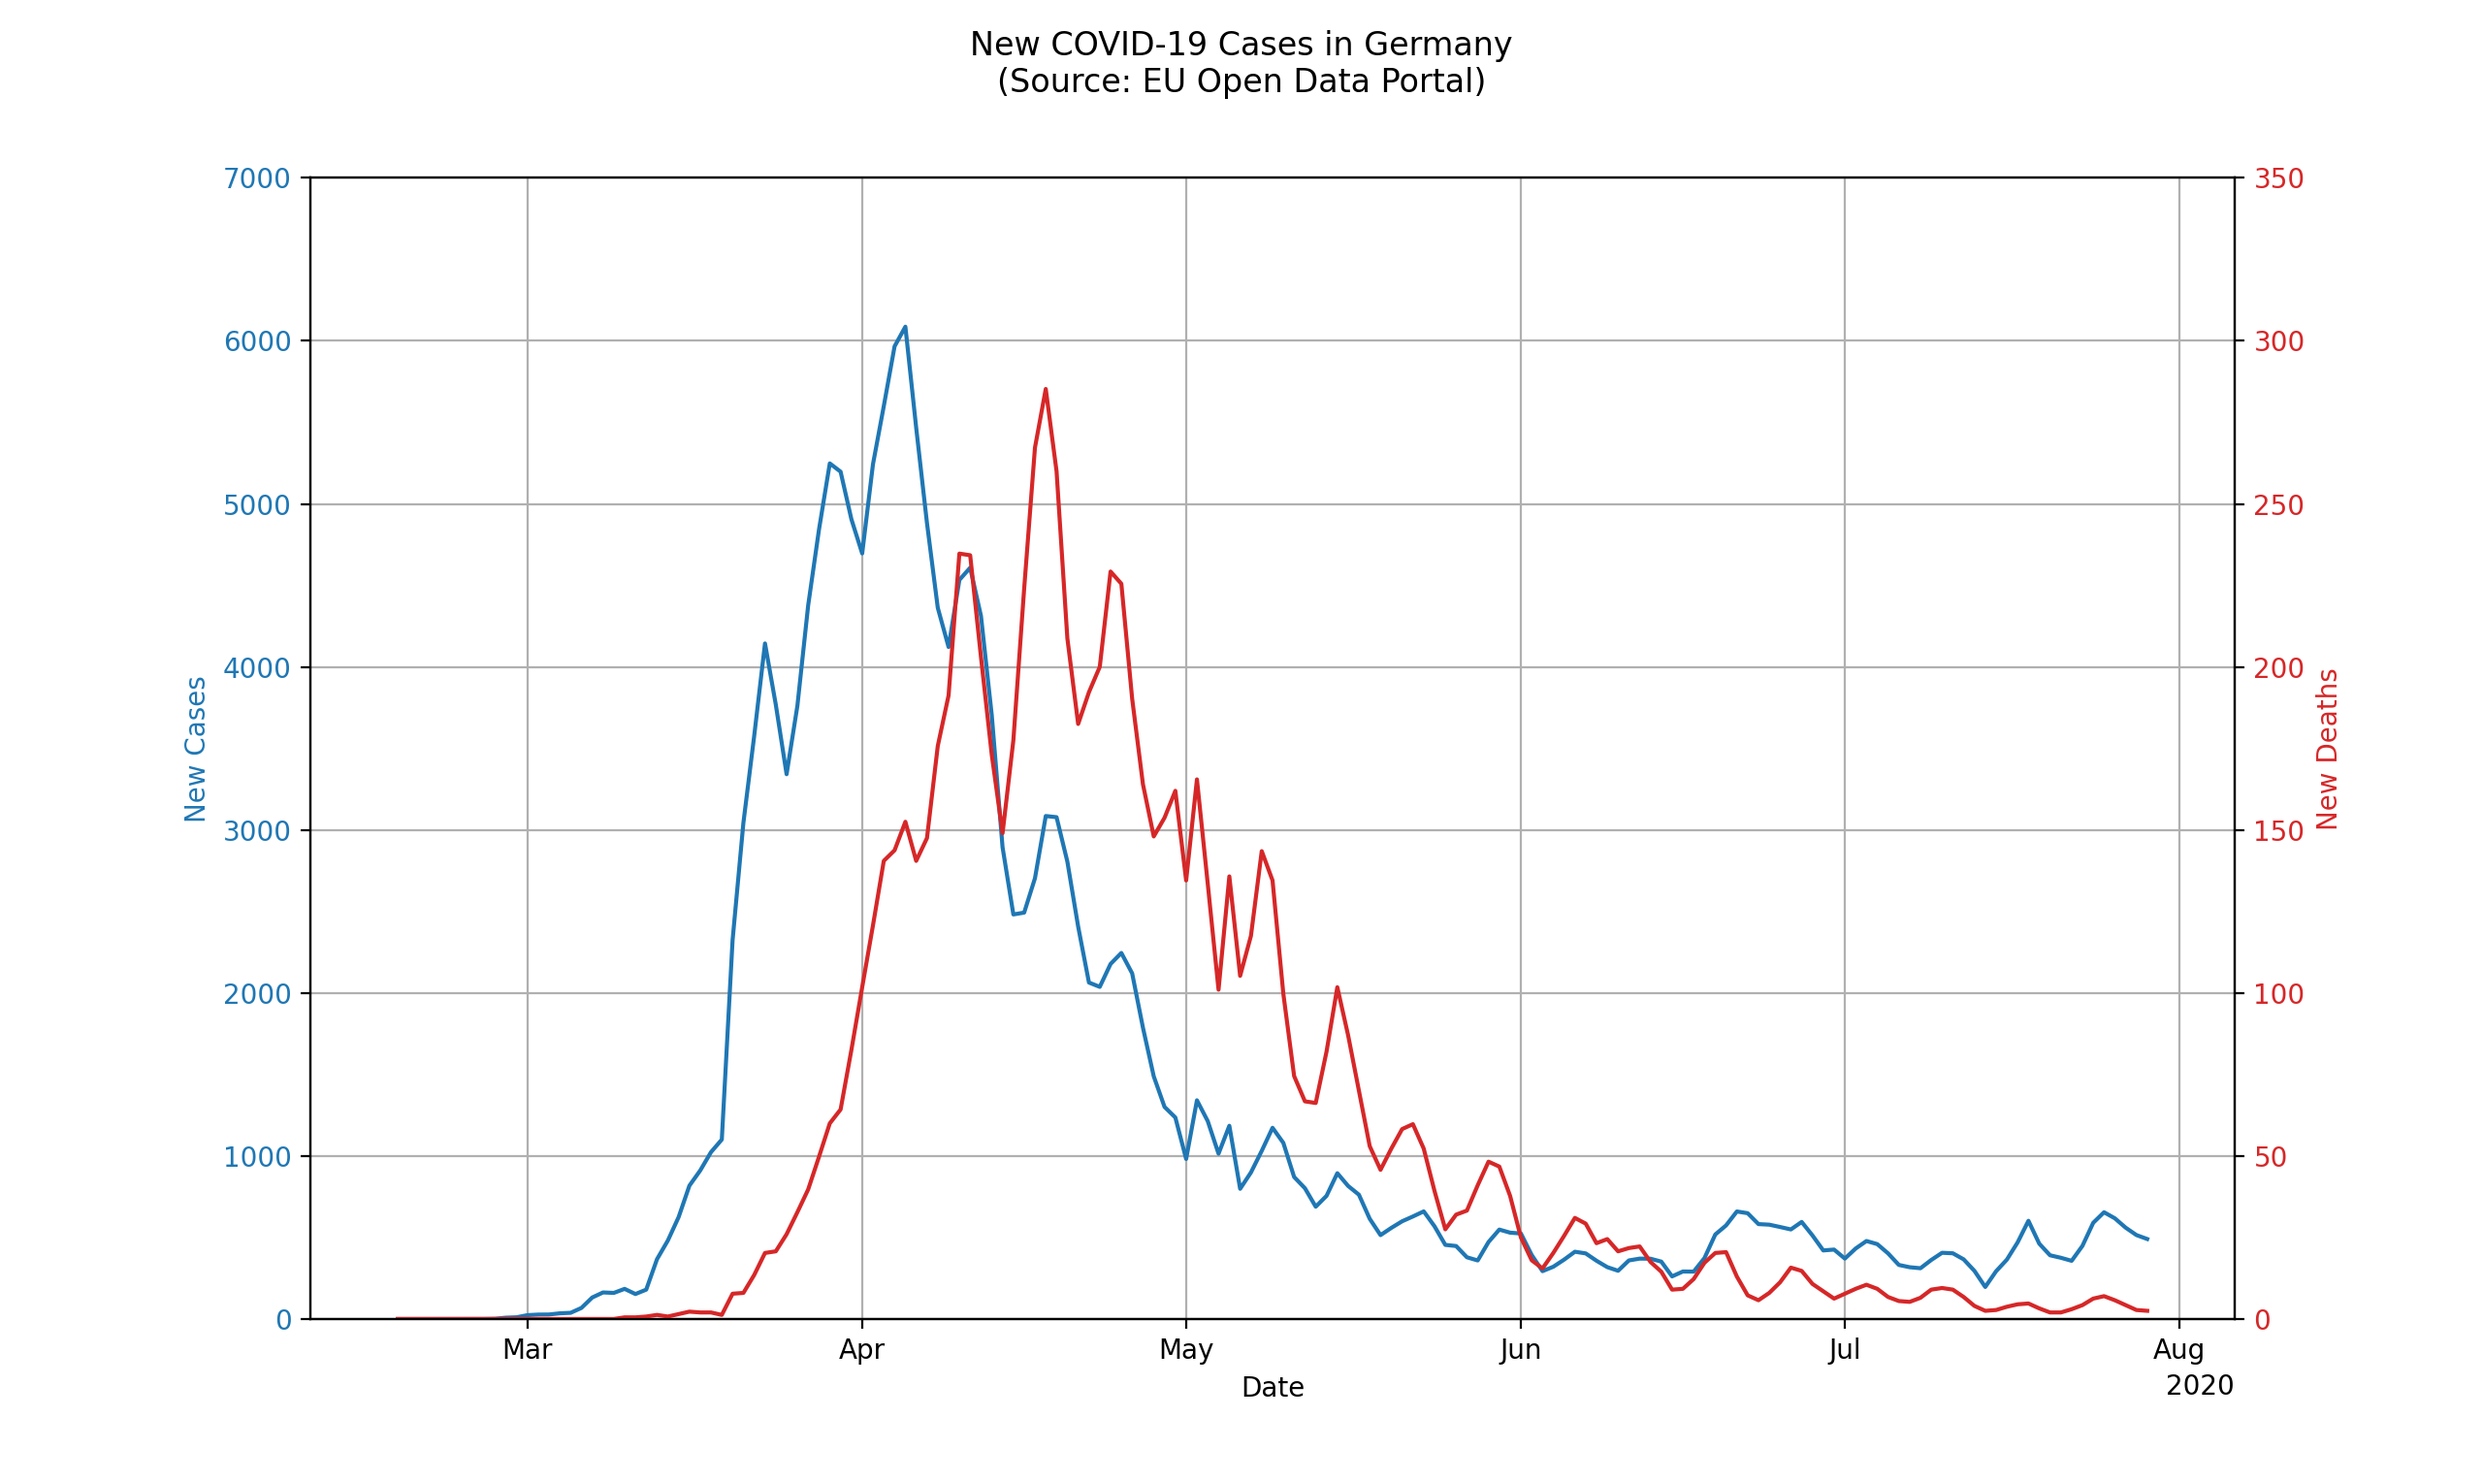
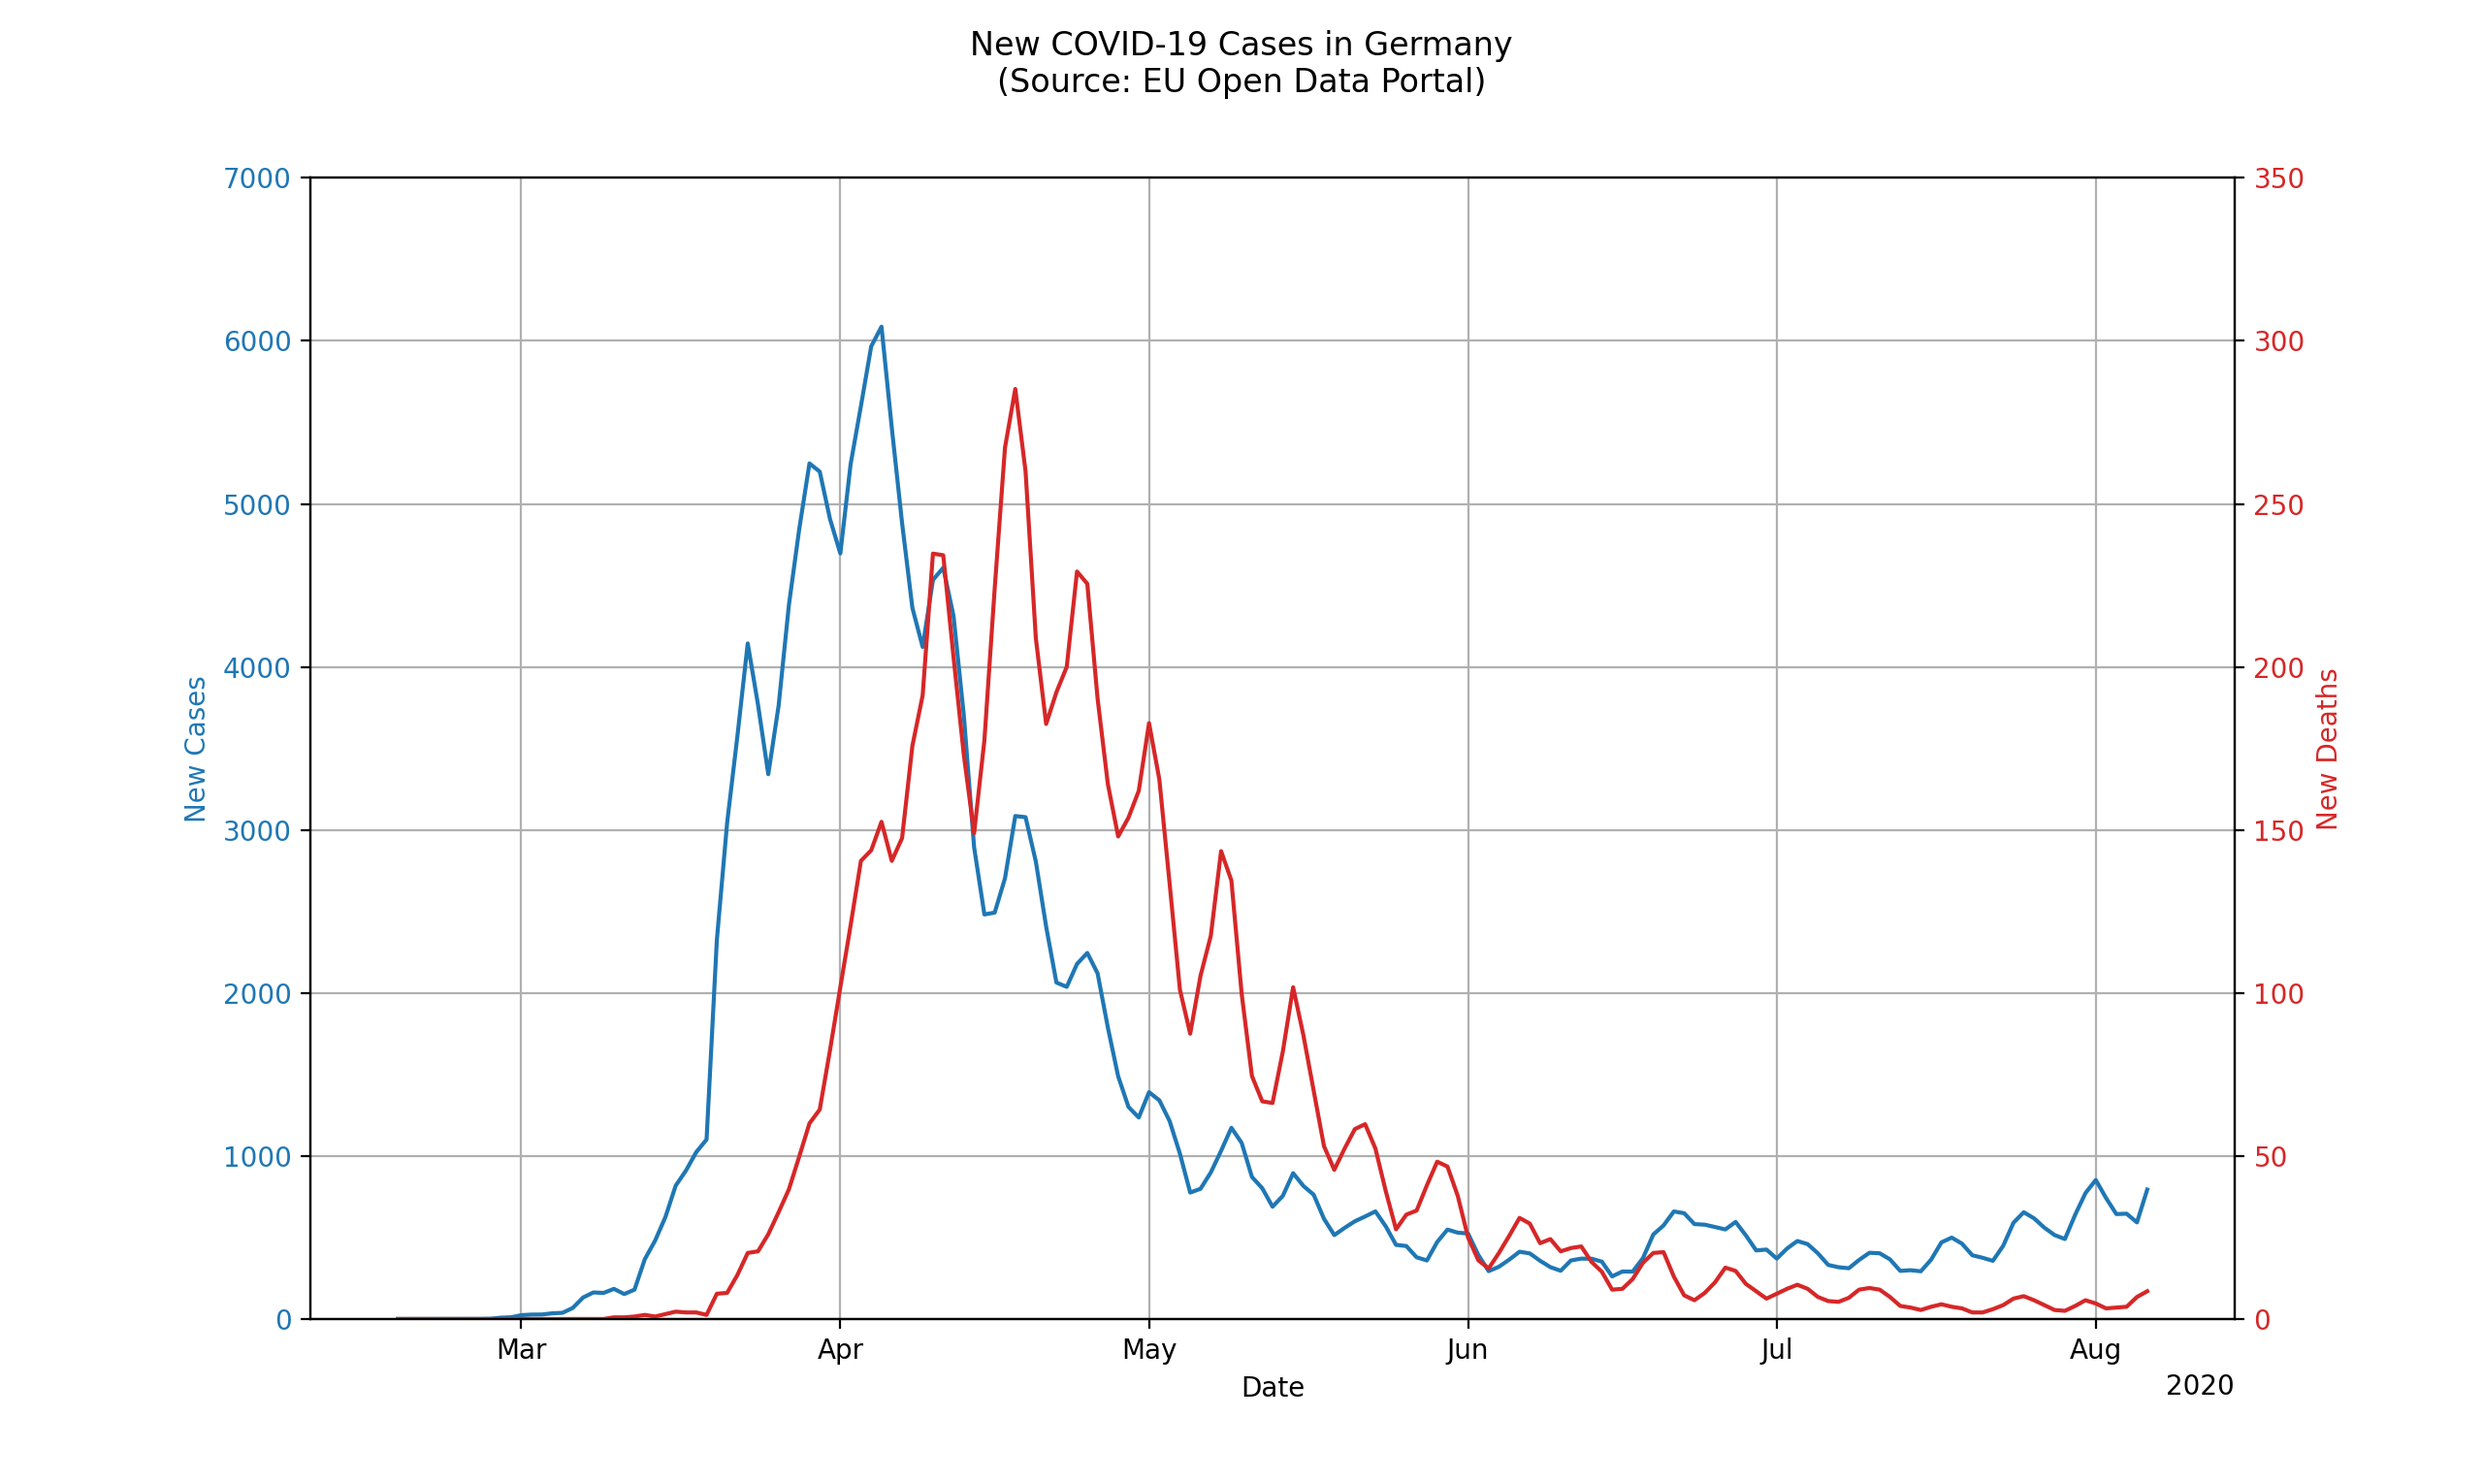
updated stats

diff --git a/corona_config.py b/corona_config.py
@@ -17,7 +17,7 @@ backup_path_rki_report = "{}/backup_{}".format(data_folder, file_rki_report)
 
 link_corona_cases = "https://opendata.ecdc.europa.eu/covid19/casedistribution/csv"
 link_deaths_germany = "https://www.destatis.de/DE/Themen/Gesellschaft-Umwelt/Bevoelkerung/Sterbefaelle-Lebenserwartung/Tabellen/sonderauswertung-sterbefaelle.xlsx?__blob=publicationFile"
-link_rki_report = "https://www.rki.de/DE/Content/InfAZ/N/Neuartiges_Coronavirus/Situationsberichte/2020-07-29-de.pdf?__blob=publicationFile"
+link_rki_report = "https://www.rki.de/DE/Content/InfAZ/N/Neuartiges_Coronavirus/Situationsberichte/2020-08-05-de.pdf?__blob=publicationFile"
 
 data_sources = [
     (link_corona_cases, path_corona_cases, backup_path_corona_cases),

diff --git a/README.md b/README.md
@@ -62,7 +62,7 @@ Fields in Table `rki_tests`
 The integrated sources so far consist of:
 * the total number of COVID-19 cases reported worlwide, comming from the EU Open Data Portal (https://data.europa.eu/euodp/en/data/dataset/covid-19-coronavirus-data) 
 * the total number of all cause deaths in Germany, reported by the Statistisches Bundesamt (https://www.destatis.de/DE/Themen/Gesellschaft-Umwelt/Bevoelkerung/Sterbefaelle-Lebenserwartung/Tabellen/sonderauswertung-sterbefaelle.html)
-* the total number of performed COVID-19 tests in Germany, reported by the Robert Koch Institute (https://www.rki.de/DE/Content/InfAZ/N/Neuartiges_Coronavirus/Situationsberichte/2020-07-29-de.pdf)
+* the total number of performed COVID-19 tests in Germany, reported by the Robert Koch Institute (https://www.rki.de/DE/Content/InfAZ/N/Neuartiges_Coronavirus/Situationsberichte/2020-08-05-de.pdf)
 
 
 ## Results
